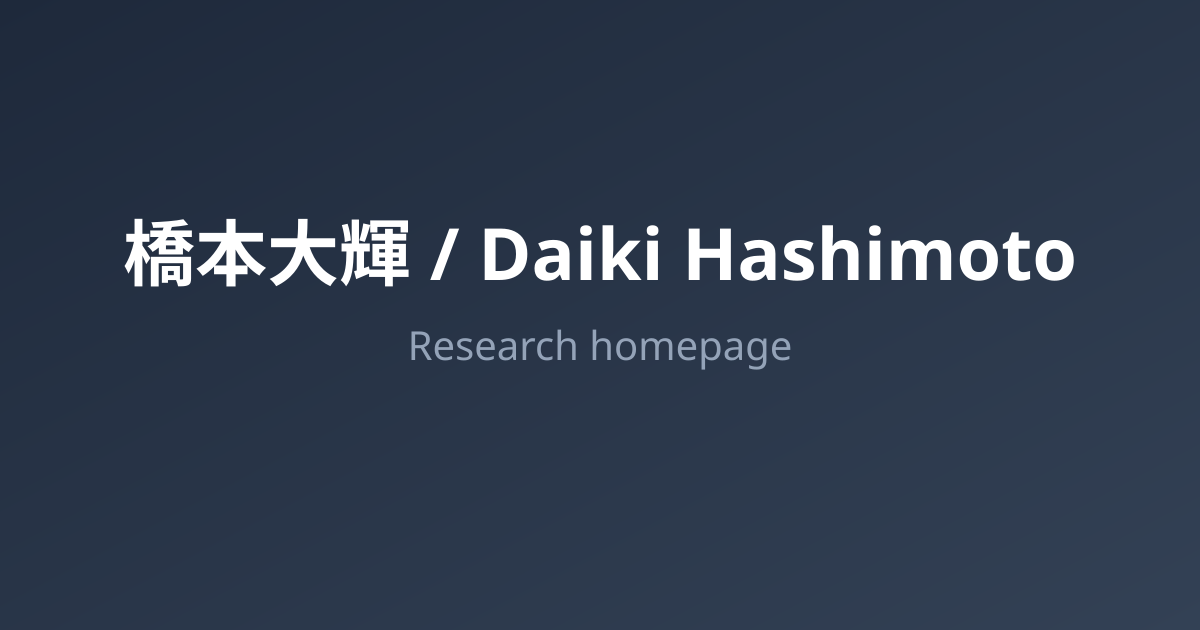
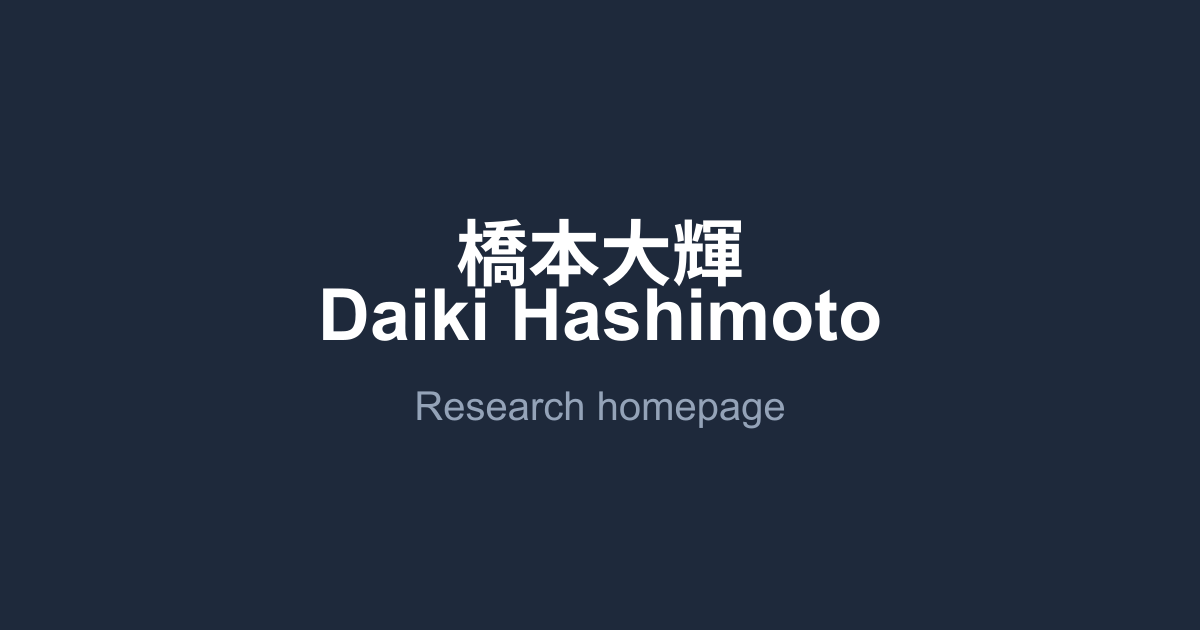
fix og

Changed region(s): [[0.0925, 0.3317, 0.8942, 0.6032], [0.8633, 0.8746, 1.0, 1.0], [0.3392, 0.6032, 0.6783, 0.6937]]

diff --git a/src/lib/icons.tsx b/src/lib/icons.tsx
@@ -13,8 +13,16 @@ import {
   TbUser,
   TbPencil,
   TbNotebook,
-  TbBooks
+  TbBooks,
+  TbMail,
+  TbBrandGithub,
+  TbBrandX,
+  TbBrandLinkedin,
+  TbBuilding,
+  TbSchool
 } from 'react-icons/tb'
+import { SiOrcid } from 'react-icons/si'
+import { FaTwitter } from 'react-icons/fa'
 
 const iconMap: { [key: string]: React.ComponentType<{ className?: string }> } = {
   ':star:': TbStar,
@@ -24,13 +32,21 @@ const iconMap: { [key: string]: React.ComponentType<{ className?: string }> } = 
   ':file:': TbFileText,
   ':presentation:': TbPresentation,
   ':check:': TbCheck,
-  ':x:': TbX,
   ':alert:': TbAlertCircle,
   ':info:': TbInfoCircle,
   ':person:': TbUser,
   ':memo:': TbPencil,
   ':notebook:': TbNotebook,
   ':books:': TbBooks,
+  ':email:': TbMail,
+  ':github:': TbBrandGithub,
+  ':twitter:': FaTwitter,
+  ':twitter-bird:': FaTwitter,
+  ':x:': TbBrandX,
+  ':linkedin:': TbBrandLinkedin,
+  ':orcid:': SiOrcid,
+  ':building:': TbBuilding,
+  ':school:': TbSchool,
 }
 
 export function replaceIconsInText(text: string | React.ReactNode, className: string = "inline h-[1em] w-[1em] align-text-bottom"): React.ReactNode {
@@ -38,7 +54,7 @@ export function replaceIconsInText(text: string | React.ReactNode, className: st
   
   const parts: React.ReactNode[] = []
   let lastIndex = 0
-  const regex = /:(star|award|pin|world|file|presentation|check|x|alert|info|person|memo|notebook|books):/g
+  const regex = /:(star|award|pin|world|file|presentation|check|x|alert|info|person|memo|notebook|books|email|github|twitter|twitter-bird|linkedin|orcid|building|school):/g
   let match: RegExpExecArray | null
   
   while ((match = regex.exec(text)) !== null) {

diff --git a/src/app/layout.tsx b/src/app/layout.tsx
@@ -3,6 +3,18 @@ import type { Metadata } from "next";
 import { SiteHeader } from "@/components/SiteHeader";
 import { ThemeProvider } from "@/components/ThemeProvider";
 import { SITE_MAX_WIDTH } from "@/lib/constants";
+import { Inter, Noto_Sans_JP } from "next/font/google";
+
+const inter = Inter({ 
+  subsets: ["latin"],
+  variable: "--font-inter",
+});
+
+const notoSansJP = Noto_Sans_JP({ 
+  subsets: ["latin"],
+  variable: "--font-noto-sans-jp",
+  weight: ["400", "500", "700"],
+});
 
 export const metadata: Metadata = {
   title: "橋本大輝 / Daiki Hashimoto",
@@ -27,7 +39,7 @@ export const metadata: Metadata = {
 export default function RootLayout({ children }: { children: React.ReactNode }) {
   return (
     <html lang="ja" suppressHydrationWarning>
-      <body className="min-h-dvh antialiased">
+      <body className={`min-h-dvh antialiased ${inter.variable} ${notoSansJP.variable} font-sans`}>
         <ThemeProvider attribute="class" defaultTheme="system" enableSystem>
           <SiteHeader />
           <main className="py-10">{children}</main>

diff --git a/src/lib/mdx.ts b/src/lib/mdx.ts
@@ -24,6 +24,8 @@ export interface ContentItem {
   slug: string
   metadata: ContentMetadata
   content: string
+  contentAbove?: string
+  contentBelow?: string
 }
 
 export function getContentBySlug(type: ContentType, slug: string): ContentItem | null {
@@ -32,6 +34,20 @@ export function getContentBySlug(type: ContentType, slug: string): ContentItem |
     const fullPath = path.join(contentDirectory, type, `${realSlug}.mdx`)
     const fileContents = fs.readFileSync(fullPath, 'utf8')
     const { data, content } = matter(fileContents)
+
+    // Split content by <!-- cards --> marker
+    const cardsSeparator = '<!-- cards -->'
+    const parts = content.split(cardsSeparator)
+    
+    if (parts.length === 2) {
+      return {
+        slug: realSlug,
+        metadata: data as ContentMetadata,
+        content,
+        contentAbove: parts[0].trim(),
+        contentBelow: parts[1].trim(),
+      }
+    }
 
     return {
       slug: realSlug,

diff --git a/src/app/page.tsx b/src/app/page.tsx
@@ -17,6 +17,8 @@ export default async function HomePage() {
       />
 
       <div className="space-y-8">
+        {content?.contentAbove && <MDXContent content={content.contentAbove} />}
+
         <div className="grid gap-4 sm:grid-cols-2">
           <Card
             title="出版&nbsp;&nbsp;&nbsp;Publications"
@@ -32,7 +34,7 @@ export default async function HomePage() {
           />
         </div>
 
-        {content && <MDXContent content={content.content} />}
+        {content?.contentBelow && <MDXContent content={content.contentBelow} />}
       </div>
     </Container>
   )

diff --git a/src/mdx-components.tsx b/src/mdx-components.tsx
@@ -40,7 +40,7 @@ export function useMDXComponents(components: MDXComponents): MDXComponents {
       </h4>
     ),
     p: ({ children }) => (
-      <p className="leading-7 [&:not(:first-child)]:mt-6">
+      <p className="leading-7 [&:not(:first-child)]:mt-6 text-base font-normal" style={{ fontWeight: 400 }}>
         {processChildren(children)}
       </p>
     ),

diff --git a/src/app/globals.css b/src/app/globals.css
@@ -82,5 +82,6 @@
 @layer base {
   body {
     @apply bg-background text-foreground;
+    font-family: var(--font-noto-sans-jp), var(--font-inter), -apple-system, BlinkMacSystemFont, "Segoe UI", sans-serif;
   }
 }

diff --git a/CONTENT_GUIDE.md b/CONTENT_GUIDE.md
@@ -1,5 +1,55 @@
 # Research Site - MDX Content Guide
 
+## アイコン記法
+
+マークダウン内で絵文字記法を使ってアイコンを表示できます。
+
+### 使用可能なアイコン一覧
+
+#### 一般
+- `:person:` - 人物アイコン
+- `:memo:` - メモ・鉛筆アイコン
+- `:notebook:` - ノートアイコン
+- `:books:` - 本アイコン
+- `:star:` - 星アイコン
+- `:award:` - 賞・トロフィーアイコン
+- `:pin:` - ピン・場所アイコン
+- `:world:` - 地球・ウェブアイコン
+- `:file:` - ファイルアイコン
+- `:presentation:` - プレゼンテーションアイコン
+
+#### 連絡先
+- `:email:` - メールアイコン
+- `:github:` - GitHubアイコン
+- `:twitter:` または `:twitter-bird:` - Twitter鳥アイコン
+- `:x:` - X (Twitter)アイコン
+- `:linkedin:` - LinkedInアイコン
+- `:orcid:` - ORCID iDアイコン
+- `:building:` - 所属・組織アイコン
+- `:school:` - 大学・学校アイコン
+
+#### ステータス
+- `:check:` - チェックマーク
+- `:x:` - バツマーク
+- `:alert:` - 警告アイコン
+- `:info:` - 情報アイコン
+
+### 使用例
+
+```markdown
+## :person: 橋本大輝
+
+:email: example@university.ac.jp  
+:github: [username](https://github.com/username)  
+:orcid: [0000-0000-0000-0000](https://orcid.org/0000-0000-0000-0000)
+
+## :memo: 研究紹介
+
+量子多体傷跡状態について研究しています。
+```
+
+---
+
 ## マークダウンでコンテンツを編集する方法
 
 このサイトではMDX（Markdown + JSX）を使用してコンテンツを管理できます。
